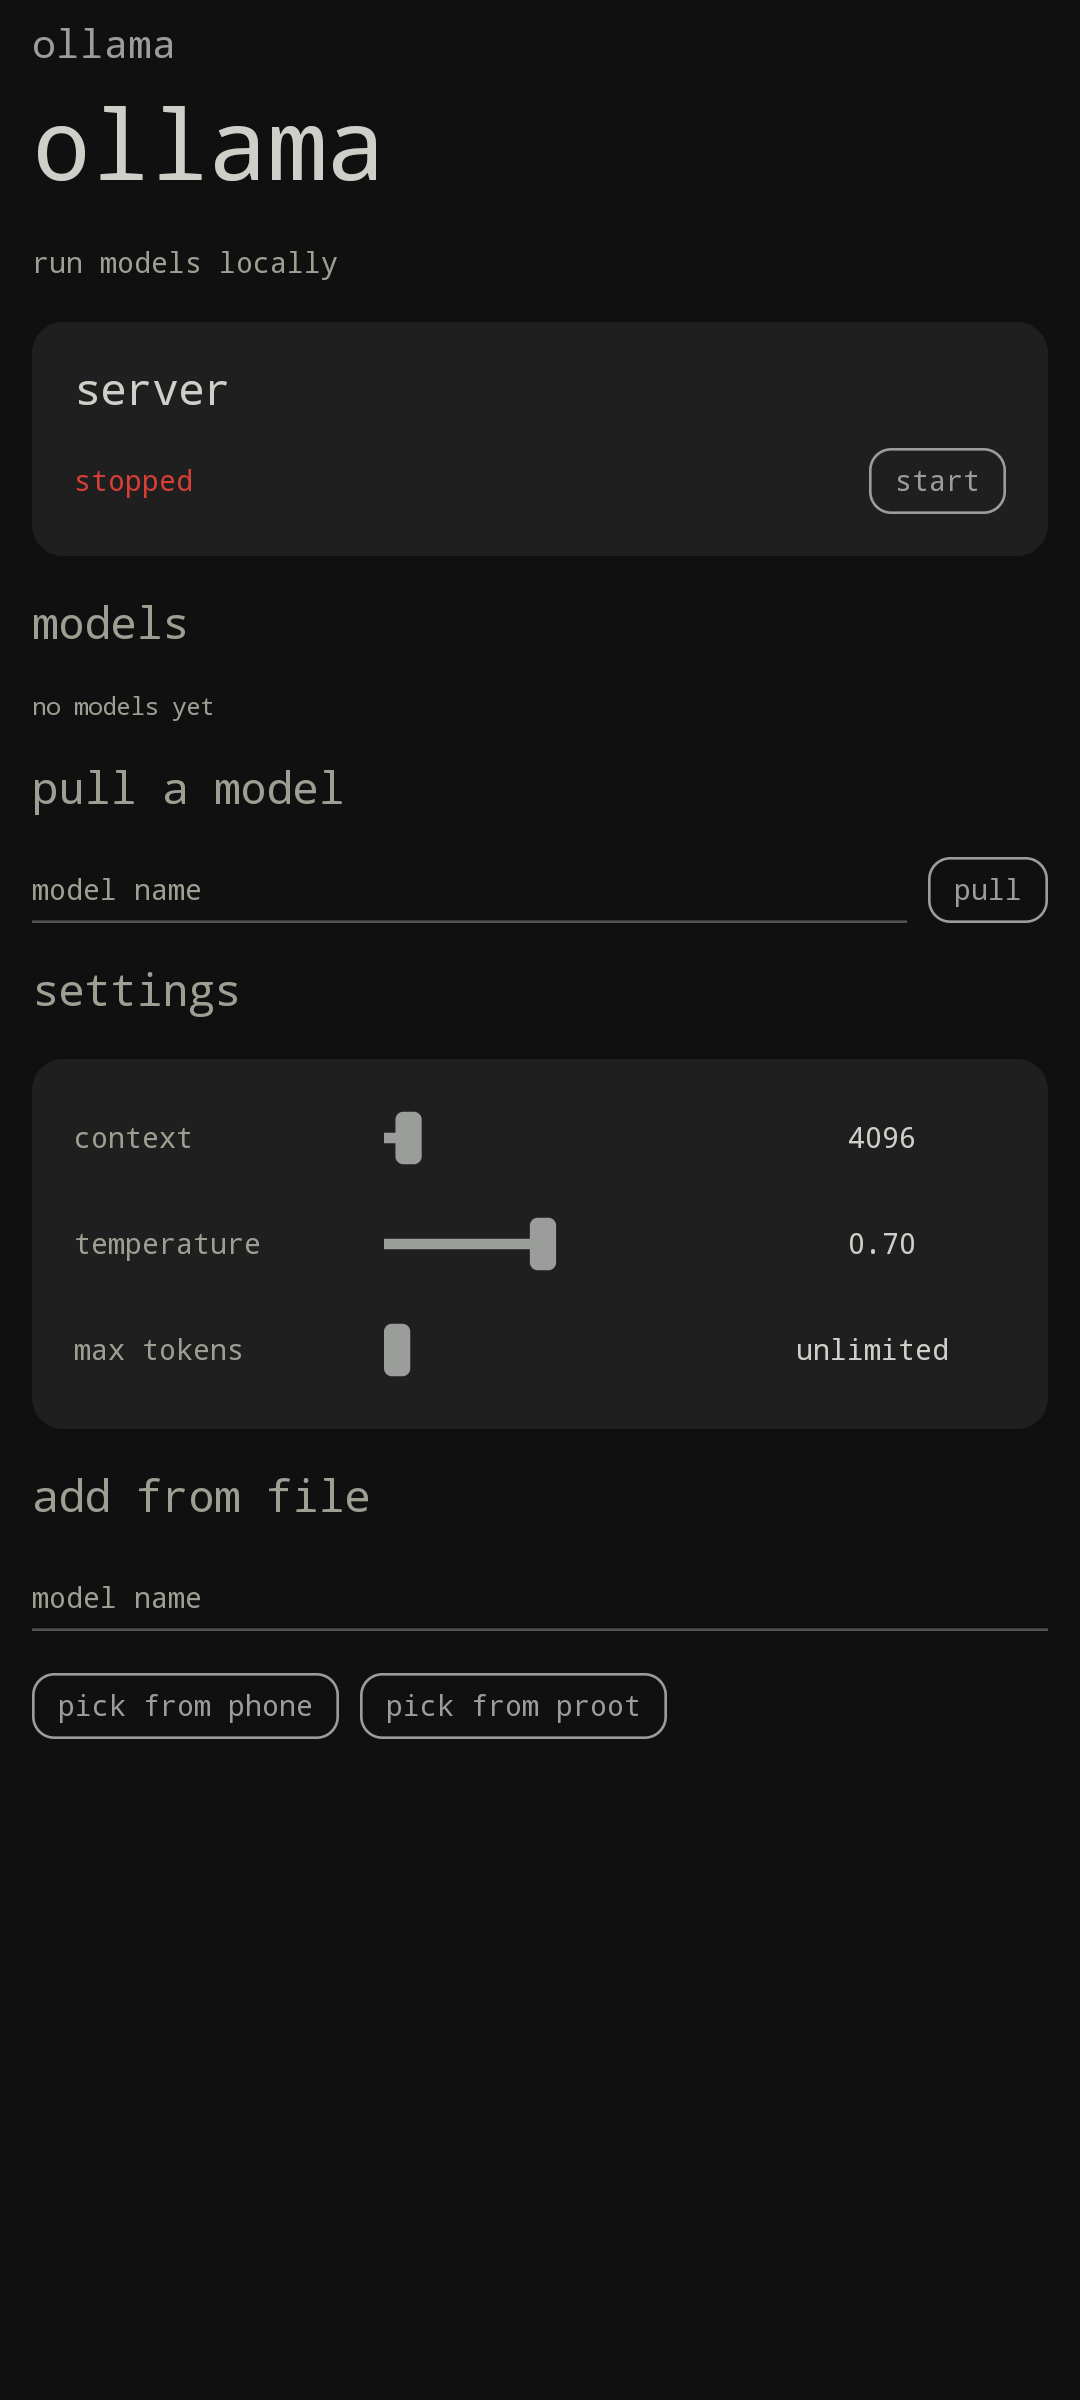
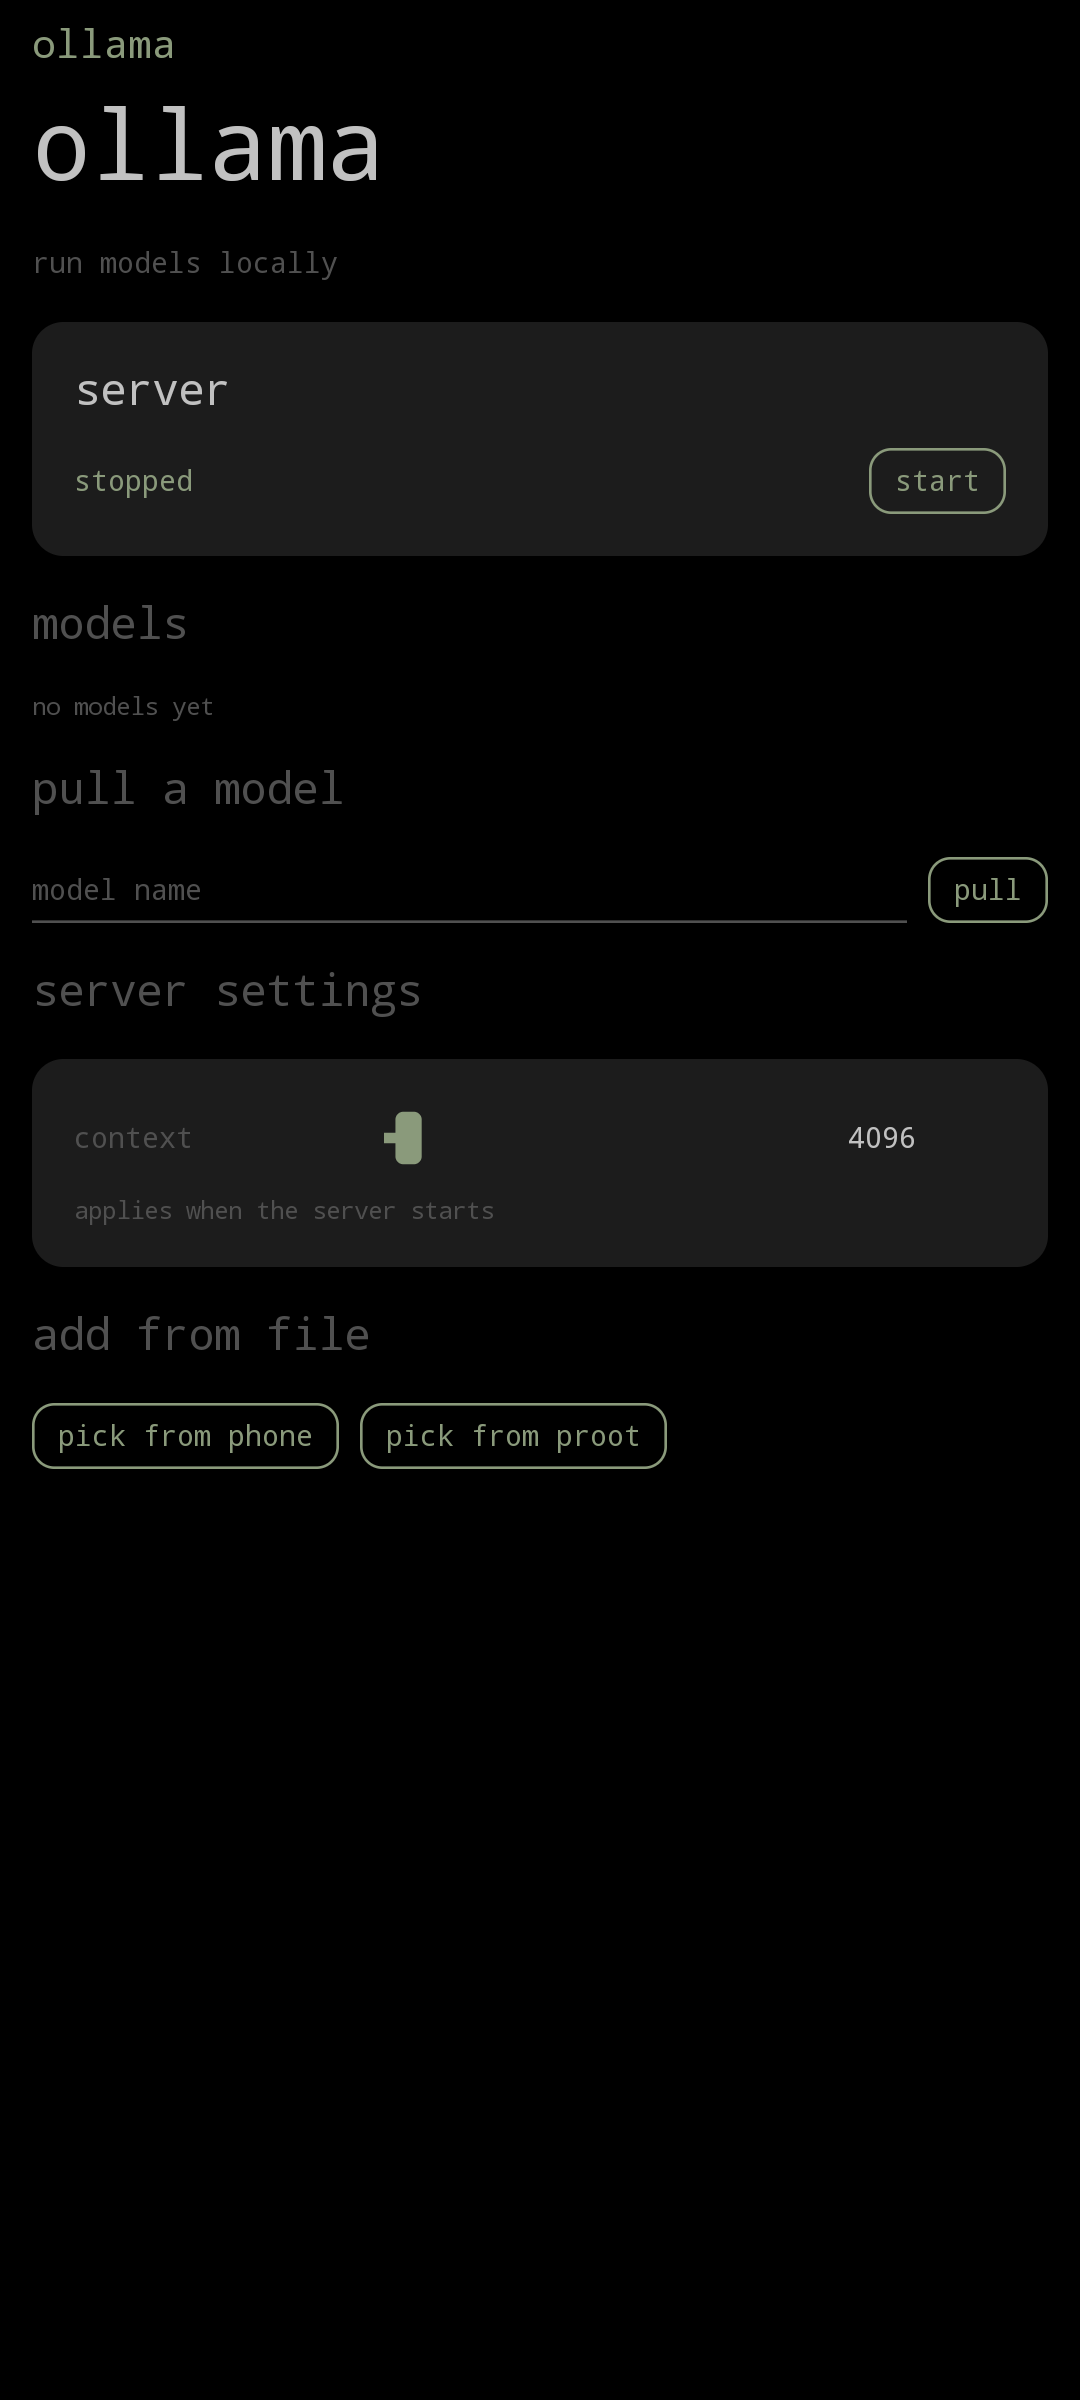
fix(ollama): address review issues 2-4
- Remove the destructive ollama rm from both GGUF import commands; ollama create overwrites on its own.
- Track the pull name on every keystroke via onChange and a let-backed field; guard the pull button against an empty name.
- Wire the context slider into OLLAMA_CONTEXT_LENGTH when starting the server, and remove the unused temperature, max-tokens and import-name controls.

diff --git a/apps/ghostonthe3rdfloor/ollama/README.md b/apps/ghostonthe3rdfloor/ollama/README.md
@@ -1,6 +1,6 @@
 # ollama
 
-A full-screen app for the local Ollama server: start/stop the server, list models, chat, pull or import GGUF models, unload loaded models, and adjust context, temperature and max tokens.
+A full-screen app for the local Ollama server: start/stop the server, list models, chat, pull or import GGUF models, unload loaded models, and set the server's context length.
 
 ## Installing Ollama
 
